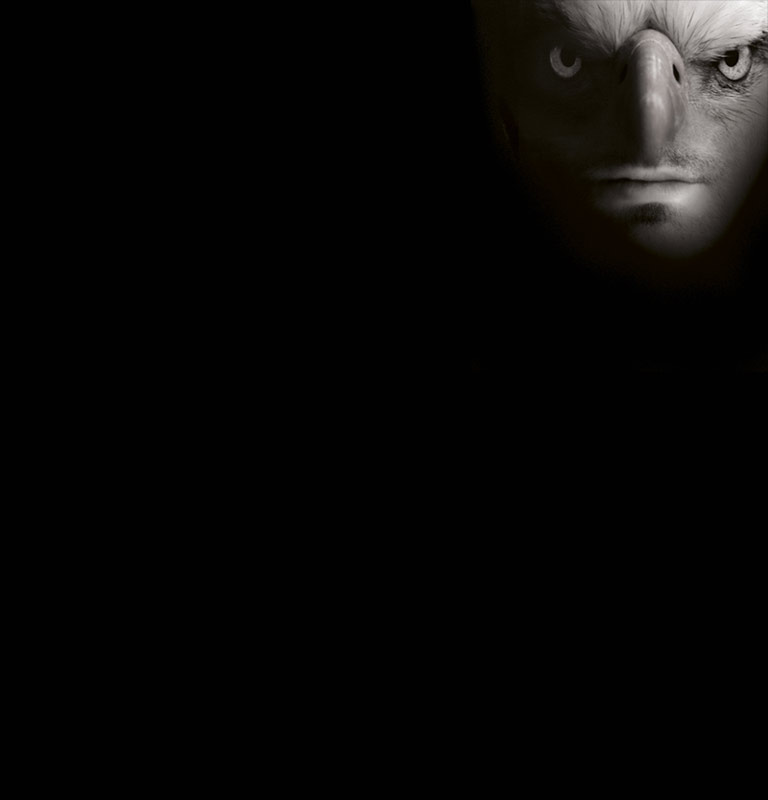
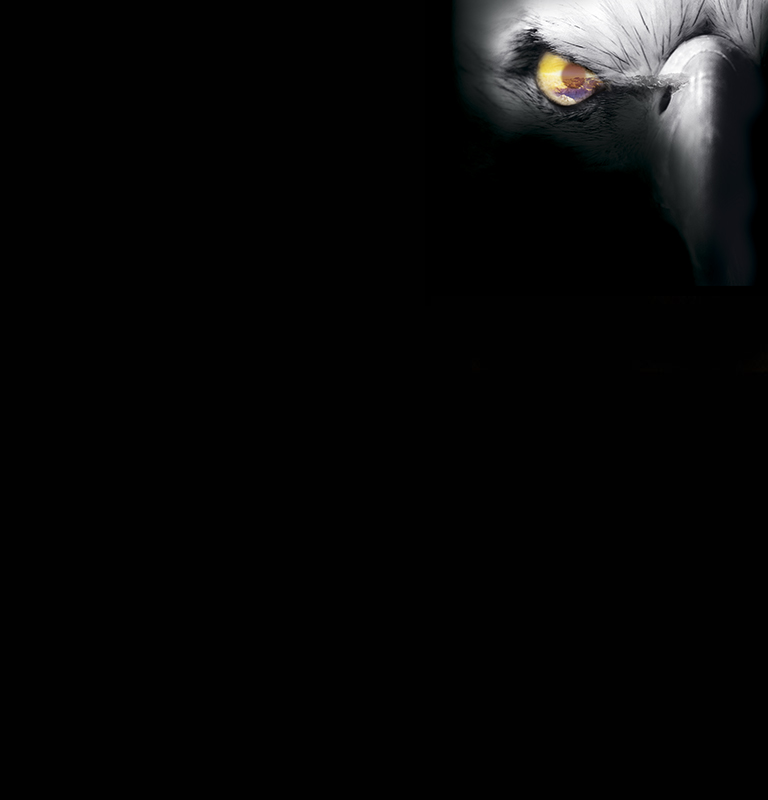
final commit

Changed region(s): [[0.5938, 0.0, 1.0, 0.3438]]

diff --git a/wp-content/themes/tyrolienne/templates/header-top-navbar.php b/wp-content/themes/tyrolienne/templates/header-top-navbar.php
@@ -46,7 +46,7 @@
 
         <div class="fix-submenu">
           <?php if(tyrolienne_contest_exists_func()) : ?>
-            <a href="#contests">CONTESTS</a>
+            <a href="#contests">CONCOURS</a>
           <?php endif; ?>
           <a href="#community">COMMUNITY</a>
           <a href="#info">INFO</a>
@@ -78,7 +78,7 @@
 
   <div class="submenu">
     <?php if(tyrolienne_contest_exists_func()) : ?>
-      <a href="#contests">CONTESTS</a>
+      <a href="#contests">CONCOURS</a>
     <?php endif; ?>
     <a href="#community">COMMUNITY</a>
     <a href="#info">INFO</a>

diff --git a/wp-content/themes/tyrolienne/front-page.php b/wp-content/themes/tyrolienne/front-page.php
@@ -1,6 +1,6 @@
 <?php if(tyrolienne_contest_exists_func()) : ?>
 <section id="contests">
-  <h2><i class="glyphicon glyphicon-chevron-right"></i>CONTESTS</h2>
+  <h2><i class="glyphicon glyphicon-chevron-right"></i>CONCOURS</h2>
   <?= do_shortcode('[tyrolienne_contests count=1]') ?>
 </section>
 <?php endif; ?>
@@ -12,6 +12,7 @@
 
 <section id="info">
   <h2><i class="glyphicon glyphicon-chevron-right"></i>ACCÈS / INFO / TARIFS</h2>
+  <img src="<?= image_asset('bandeau-trace-tyrolienne.jpg') ?>">
   <?php get_template_part('templates/content', 'page'); ?>
 </section>
 

diff --git a/wp-content/themes/tyrolienne/lib/custom.php b/wp-content/themes/tyrolienne/lib/custom.php
@@ -47,7 +47,7 @@ function tyrolienne_contest_exists_func() {
   
   $contests_count = $contests->post_count;
 
-  return $contests_count != 0;
+  return $contests_count > 0;
 }
 
 // URL helper
